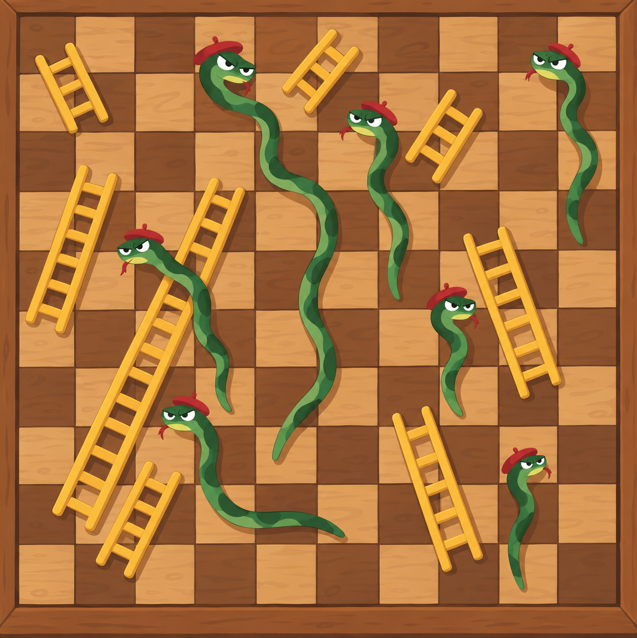
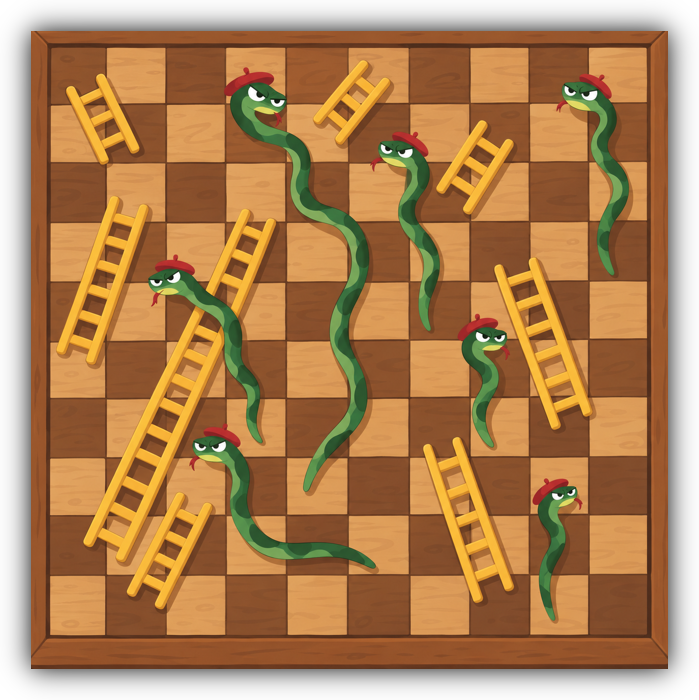
board dropshadow

diff --git a/src/app/game.tsx b/src/app/game.tsx
@@ -56,7 +56,7 @@ const BOARD_FRAME_BORDER_WIDTH = 2;
 const BOARD_FRAME_SIDE_INSET = 8;
 const BOARD_FRAME_HEIGHT_RATIO = 1.2;
 const BOARD_RESTING_WIDTH_RATIO = 0.82;
-const BOARD_IMAGE_SCALE = 1.06;
+const BOARD_IMAGE_SCALE = 1.16;
 const BOARD_BACKGROUND_SCALE = 1.5;
 const BOARD_CAMERA_ZOOM = 1.45;
 const BOARD_BACKGROUNDS: Record<string, number> = {
